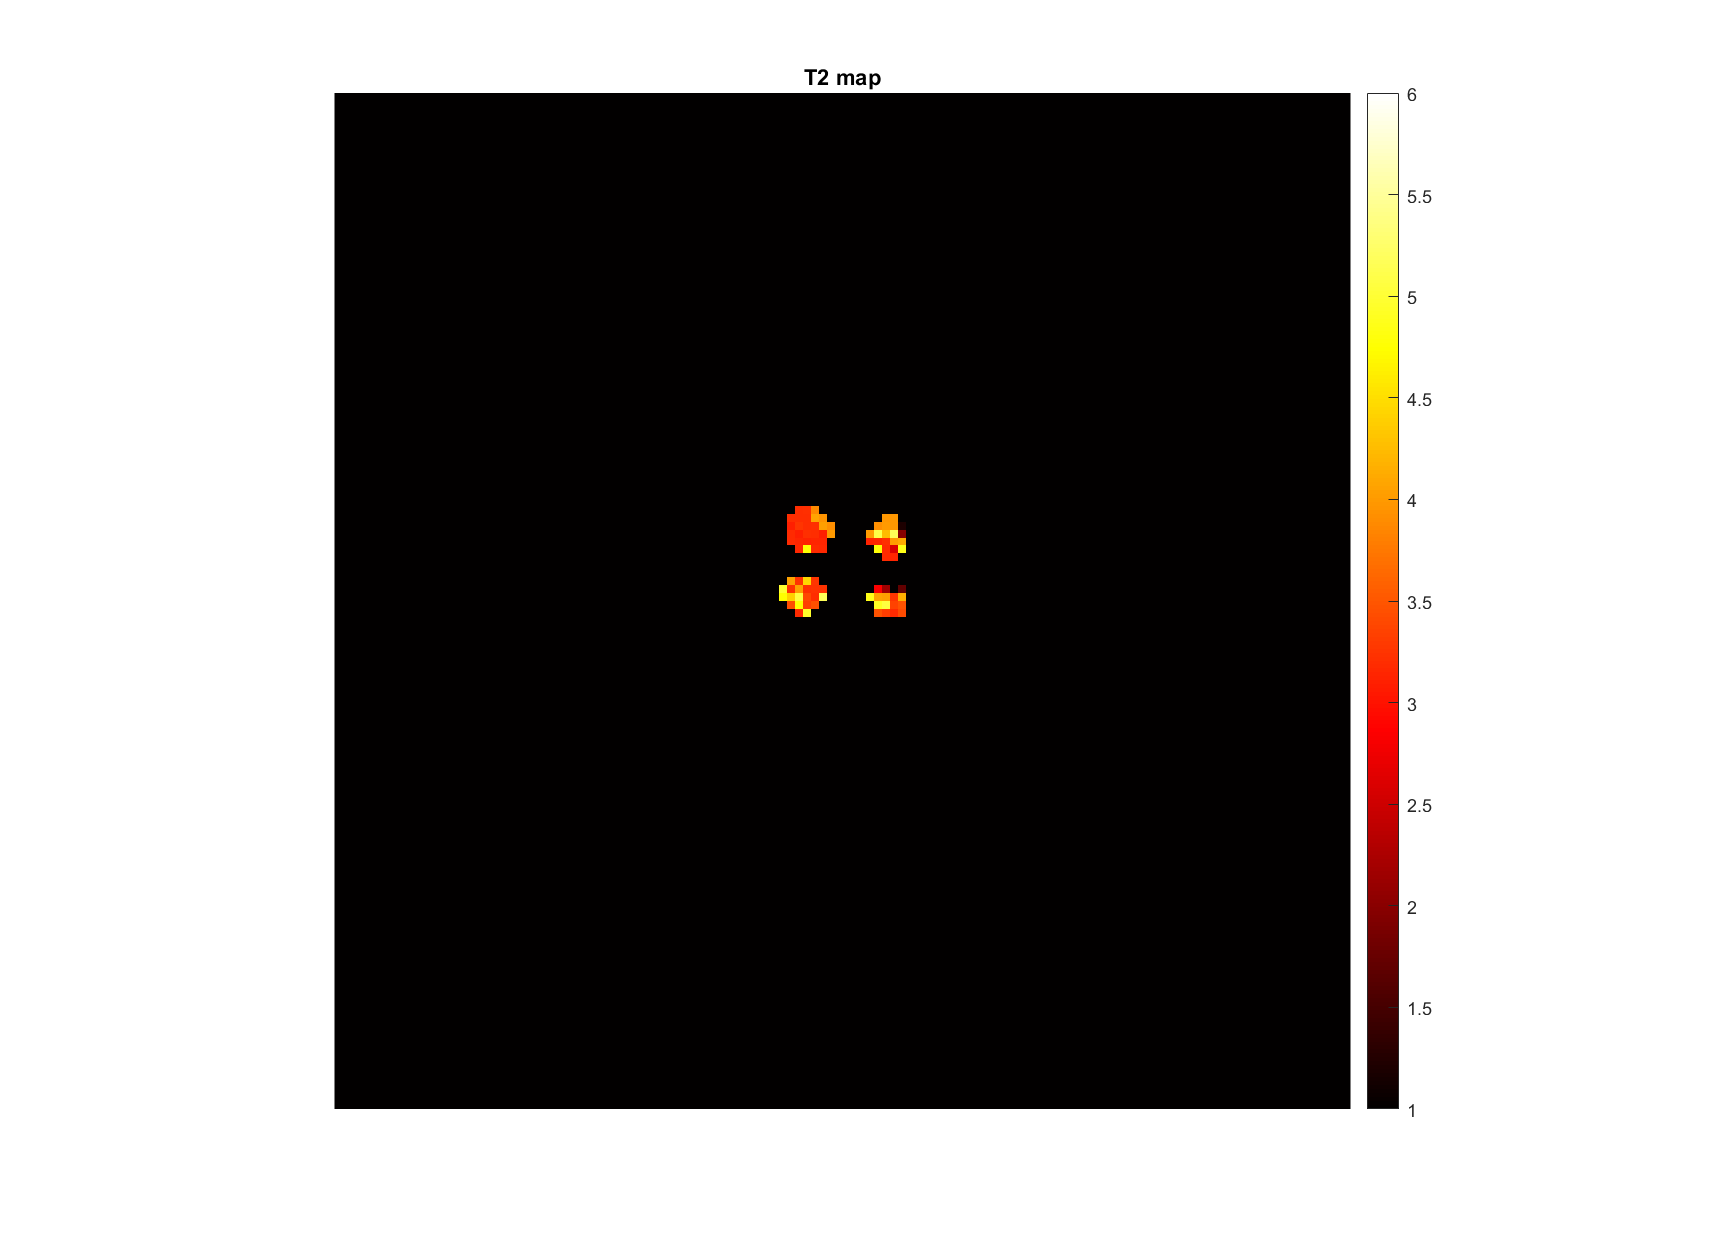
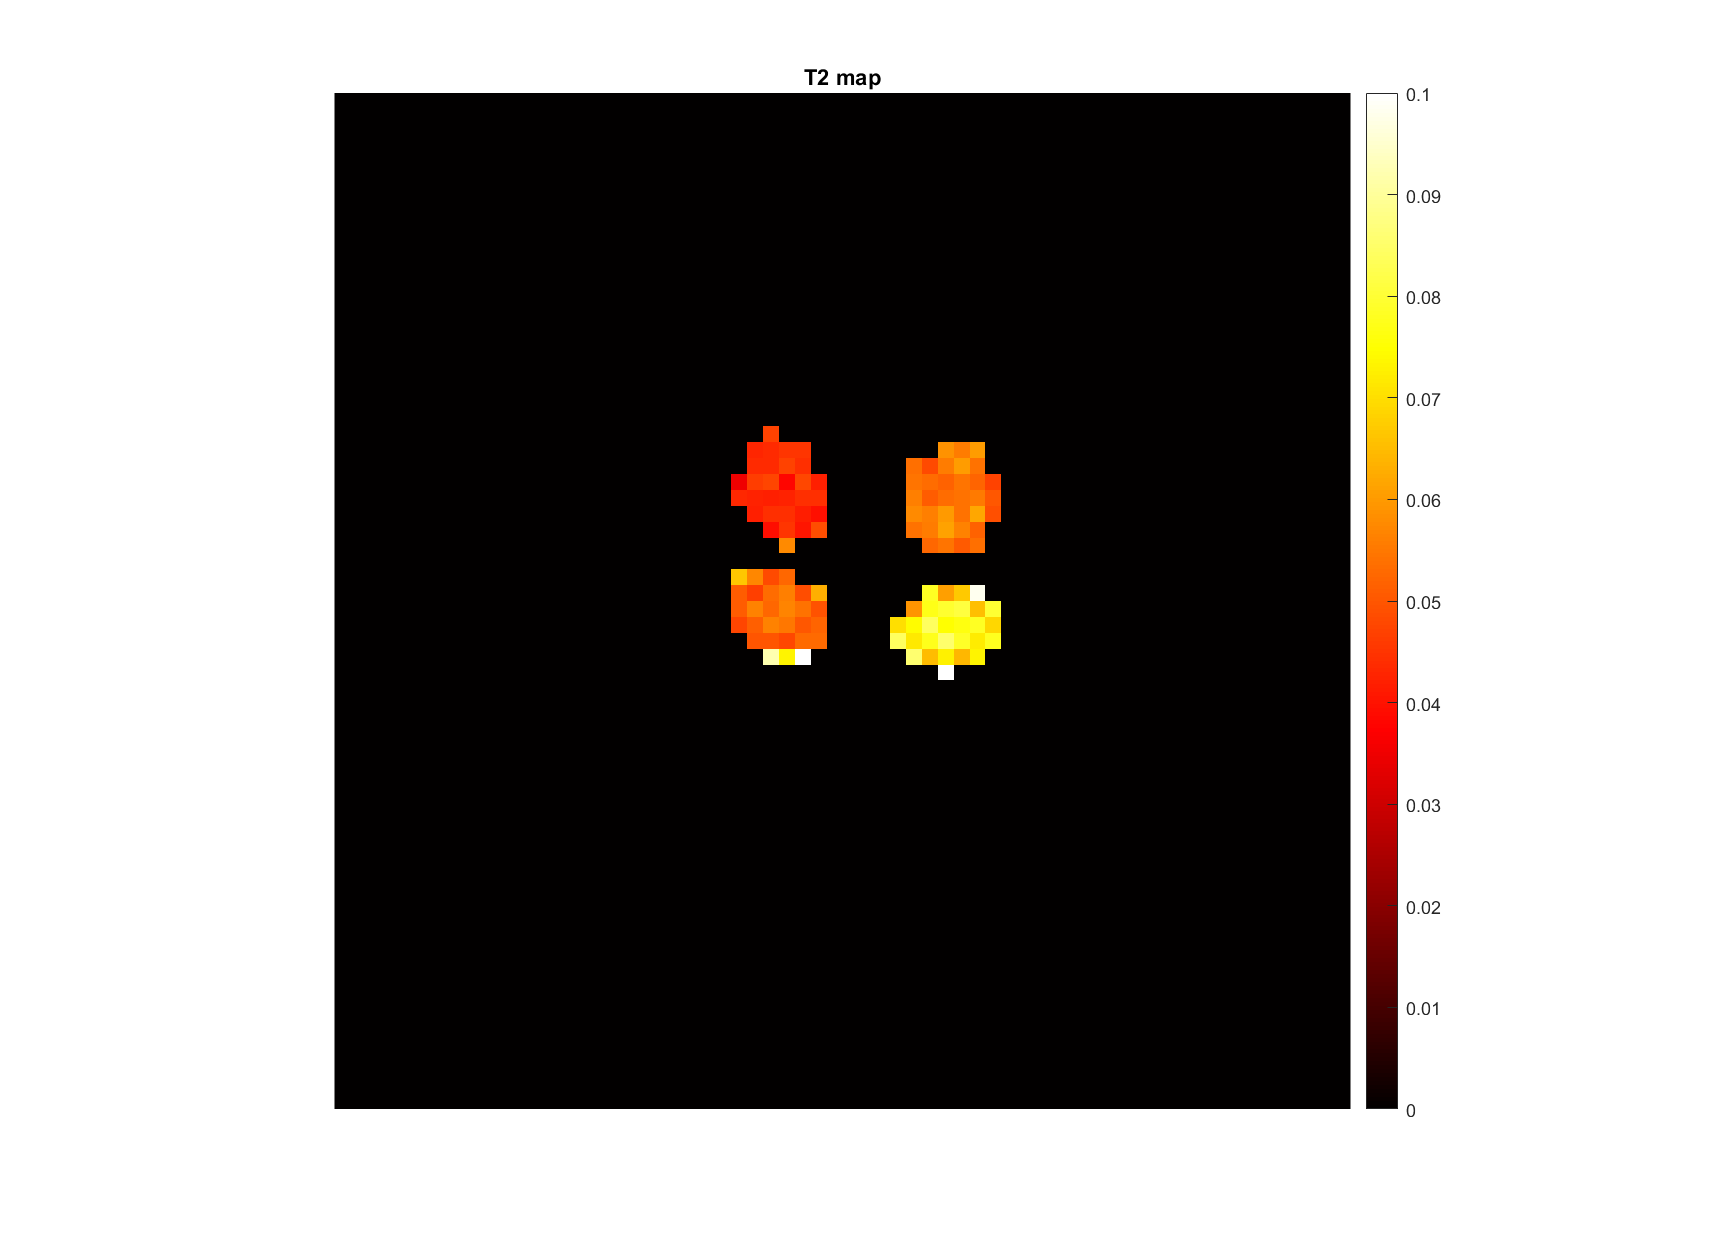
Add files via upload
Refined T2 mapping

diff --git a/Pulseq/New_York/NYU/TSE_T2_mapping_Z1/ana/T2Mapping_z1.m b/Pulseq/New_York/NYU/TSE_T2_mapping_Z1/ana/T2Mapping_z1.m
@@ -9,7 +9,7 @@ TE = 20*(1:4)./1000;
 TR = 2.5.*ones(size(TE));
 size_img = 128;
 image_data_final = mat2gray(slice); 
-% image_data_final = image_data_final.*1000; % for better curve fitting
+image_data_final = image_data_final./10; % for better curve fitting
 
 %% Define mask
 disp('Please select 4 circular ROIs covering the entire phantom:')
@@ -18,33 +18,43 @@ addToolbarExplorationButtons(gcf)
 axis equal tight
 colormap gray
 
-CircleStruc1 = drawcircle;
-CircleStruc2 = drawcircle;
-CircleStruc3 = drawcircle;
-CircleStruc4 = drawcircle;
-mask = createMask(CircleStruc1) + createMask(CircleStruc2) + createMask(CircleStruc3) + createMask(CircleStruc4);
+% CircleStruc1 = drawcircle;
+% CircleStruc2 = drawcircle;
+% CircleStruc3 = drawcircle;
+% CircleStruc4 = drawcircle;
+% mask = createMask(CircleStruc1) + createMask(CircleStruc2) + createMask(CircleStruc3) + createMask(CircleStruc4);
+% mask = createMask(CircleStruc1)
 
 close
 
-image_data_final = image_data_final.*mask;
+image_data_final = image_data_final(32:96, 32:96, :);
+size_img = 64;
+thresh = 0.07*max(max(max(image_data_final)))
+% image_data_final = image_data_final.*mask;
 
 %% curve fitting for each pixel
 T2_map = zeros(size_img, size_img);
+int_map = zeros(size_img, size_img);
 % Only use TE # m - 23 
 TE_fin = TE(1:end);
 for n1 = 1:size_img
     for n2 = 1:size_img
-       nnz(image_data_final(n1,n2,:))
-       if nnz(image_data_final(n1,n2,:))== 4
+       % nnz(image_data_final(n1,n2,:))
+       % if nnz(image_data_final(n1,n2,:))== 4
+       if image_data_final(n1,n2,:)>thresh
             y_data = squeeze(image_data_final(n1, n2, :));
             y_data = y_data(1:end);
-            [fitresult, gof] = createFitT2(TE_fin, y_data); 
+            plot(TE_fin, y_data)
+            [fitresult, gof] = createFitT2(TE_fin, y_data)
+            int_map(n1, n2) = fitresult.a;
             T2_map(n1, n2) = fitresult.b;
             disp ((n1-1)*141+n2)
        end
     end
 end
 %% Display
-imagesc(T2_map);colormap hot; axis equal tight;caxis([1 6]);addToolbarExplorationButtons(gcf);colorbar
+imagesc(int_map);colormap hot; axis equal tight;caxis([0 0.2]);addToolbarExplorationButtons(gcf);colorbar
+% imagesc(T2_map);colormap hot; axis equal tight;caxis([min(min(T2_map(T2_map>0))) max(max(T2_map))]);addToolbarExplorationButtons(gcf);colorbar
+imagesc(T2_map);colormap hot; axis equal tight;caxis([0 0.1]);addToolbarExplorationButtons(gcf);colorbar
 title('T2 map'); axis off
 

diff --git a/Pulseq/New_York/NYU/TSE_T2_mapping_Z1/ana/createFitT2.m b/Pulseq/New_York/NYU/TSE_T2_mapping_Z1/ana/createFitT2.m
@@ -18,14 +18,16 @@ function [fitresult, gof] = createFitT2(TE, y_data)
 [xData, yData] = prepareCurveData( TE, y_data );
 
 % Set up fittype and options.
-ft = fittype( 'a*exp(-x/b)+c', 'independent', 'x', 'dependent', 'y' );
+% ft = fittype( 'a*exp(-x/b)+c', 'independent', 'x', 'dependent', 'y' );
+ft = fittype( 'a*exp(-x/b)', 'independent', 'x', 'dependent', 'y' );
 opts = fitoptions( 'Method', 'NonlinearLeastSquares' );
 opts.Display = 'Off';
-opts.StartPoint = [0.915735525189067 0.792207329559554 0.512779629734432];
+% opts.StartPoint = [0.915735525189067 0.792207329559554 0.512779629734432];
+opts.StartPoint = [1 0.6];
 
 % Fit model to data.
 opts.Lower = [0 0];
-opts.Upper = [10 6];
+% opts.Upper = [10 6];
 [fitresult, gof] = fit( xData, yData, ft, opts );
 
 % % Plot fit with data.
